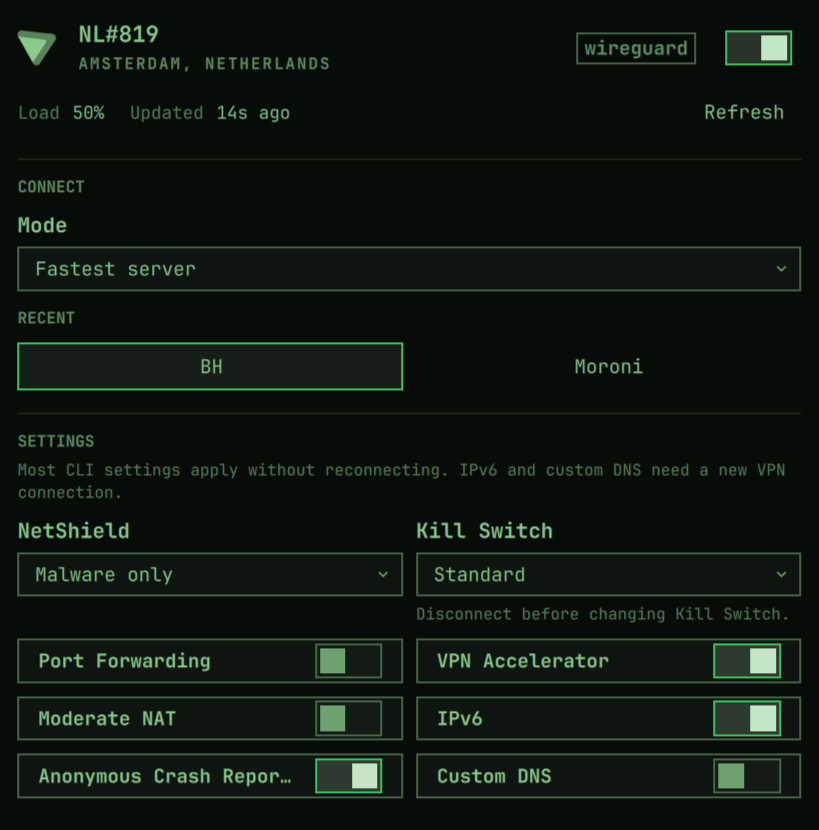
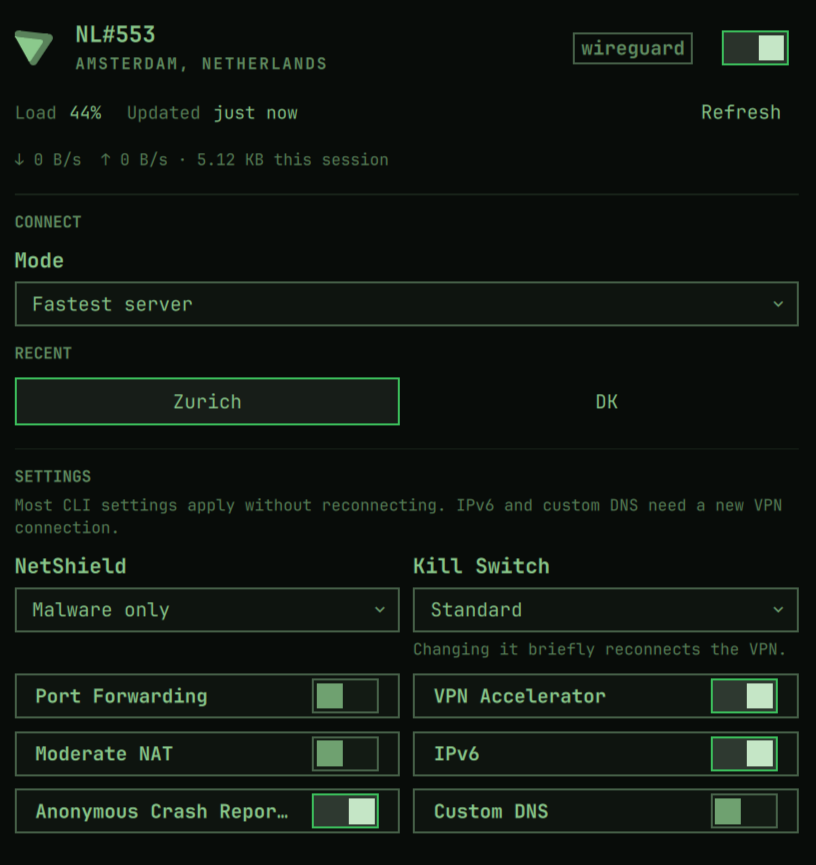
Refresh README and marketplace preview for 1.2.0
Lead the README with what the plugin does and what it needs, group
Install, Update and Uninstall with the Omarchy menu routes, and add a
widget settings table. Correct two install claims: adding the plugin
asks whether to enable it, and enabling without --section uses the
right section. Replace the hero screenshots with three 1.2.0 panels in
different themes and rebuild preview.png as a tiled composite of them.

diff --git a/README.md b/README.md
@@ -1,13 +1,136 @@
 # Proton VPN for Omarchy
 
 <p align="center">
-  <img src="docs/images/panel-fastest.png" alt="Proton VPN panel in a green Omarchy theme connected to NL#819 in Amsterdam on the fastest server, with recent BH and Moroni targets and settings below" width="49%">
-  <img src="docs/images/panel-city.png" alt="Proton VPN panel in a monochrome Omarchy theme connected to Amsterdam with City mode set to Tallinn, Estonia and a Switch to Tallinn button" width="49%">
+  <img src="docs/images/panel-country.png" alt="Proton VPN panel in a navy Omarchy theme, connected to DK#194 in Copenhagen in Country mode, with live traffic, BE under RECENT, and settings below" width="32%">
+  <img src="docs/images/panel-city.png" alt="Proton VPN panel in a monochrome Omarchy theme, connected to CH#1072 in Zurich in City mode, with DK and BE under RECENT" width="32%">
+  <img src="docs/images/panel-fastest.png" alt="Proton VPN panel in a green Omarchy theme, connected to NL#553 in Amsterdam on the fastest server, with Zurich selected under RECENT" width="32%">
 </p>
 
-Native Omarchy Quattro bar widget and keyboard-friendly panel for the official Proton VPN Linux CLI (`protonvpn`). NetworkManager is observed read-only so the bar reacts to tunnel changes without repeatedly starting the heavier CLI.
+A bar widget and keyboard-driven panel for Omarchy 4 (Quattro) that controls Proton VPN through Proton's official Linux CLI, `protonvpn`. Every connection and setting change goes through that CLI. The plugin does not reimplement Proton protocols, call Proton's private APIs, handle your credentials, edit Proton's files, or make network requests of its own. [Privacy](#privacy) lists exactly what it runs.
 
-Every VPN action and setting change goes through the installed official CLI. The plugin does not reimplement Proton protocols, call Proton's private APIs, collect credentials, edit Proton files, or run unofficial VPN clients.
+## What it does
+
+- Connects to the fastest server, or by country, city, server ID, Secure Core, P2P, Tor, or a random server.
+- Switches servers in place while connected, and lists recent connection targets under **RECENT** so you can return to one in a click.
+- Shows live download and upload rates and session totals while the panel is open.
+- Changes every setting `protonvpn config` exposes, including Kill Switch while connected, after asking first.
+- Sends a desktop notification when the VPN drops while the panel is closed.
+- Follows your Omarchy theme, and the panel works entirely from the keyboard.
+
+## What you need
+
+- Omarchy 4 (Quattro).
+- The official Proton VPN CLI, `proton-vpn-cli`, signed in to your Proton account. See [Install the Proton VPN CLI](#install-the-proton-vpn-cli).
+- NetworkManager, Python 3 at `/usr/bin/python3`, `which`, `wl-clipboard`, and libnotify (`notify-send`), all normally present on Omarchy. Without Python 3 no command can run.
+
+## Install
+
+Omarchy plugins run unsandboxed with your user privileges. Review the repository before enabling it.
+
+### From the Omarchy menu
+
+1. Choose **Setup → Plugins → Add Plugin**.
+2. When asked for the git URL, enter this and nothing else:
+
+   ```
+   https://github.com/BVisagie/omarchy-protonvpn.git
+   ```
+
+3. Accept Omarchy's plugin warning. Omarchy clones and validates the plugin, then asks whether to enable it and which bar section to use. Right is preselected.
+
+### From a terminal
+
+```sh
+omarchy plugin add https://github.com/BVisagie/omarchy-protonvpn.git
+```
+
+Omarchy shows the same warning, clones and validates the plugin, and asks whether to enable it. Add `--enable` to skip that question. Answer no to inspect the checkout at `~/.config/omarchy/plugins/io.github.BVisagie.protonvpn/` first, then enable it:
+
+```sh
+omarchy plugin enable io.github.BVisagie.protonvpn --section right
+```
+
+Without `--section`, the widget goes to the right section. To move it later:
+
+```sh
+omarchy bar move io.github.BVisagie.protonvpn --section center
+```
+
+### Install the Proton VPN CLI
+
+```sh
+sudo pacman -S proton-vpn-cli
+```
+
+`proton-vpn-cli` is in Arch's `extra` repository. Proton publishes an [Arch guide](https://protonvpn.com/support/linux-vpn-arch) for it, but a community contributor maintains the package, and Proton says support for Arch may be limited while it works towards official support. This plugin does not claim official Arch support.
+
+Then sign in from a terminal. The panel never asks for a password or 2FA code:
+
+```sh
+protonvpn signin USERNAME
+```
+
+## Update
+
+```sh
+omarchy plugin update io.github.BVisagie.protonvpn
+```
+
+Omarchy shows the incoming changes and asks before applying them. It then fast-forwards the checkout, validates it, and rolls back if validation fails. The Omarchy menu has no update entry, so updates run from a terminal.
+
+## Uninstall
+
+Choose **Setup → Plugins → Remove Plugin** from the Omarchy menu, then select this plugin. Or from a terminal:
+
+```sh
+omarchy plugin remove io.github.BVisagie.protonvpn
+```
+
+This removes the plugin from Omarchy. It does not uninstall `proton-vpn-cli` or sign out of Proton VPN.
+
+## Using the panel
+
+- **Left-click** the bar icon to open or close the panel.
+- **Right-click** connects or disconnects only while status is healthy and idle. Otherwise it opens the panel.
+- **Middle-click** refreshes when no Proton command is running.
+- The bar icon uses theme colors: connected is full strength, disconnected is dimmed, and degraded states add a warning badge. A slash marks disconnected or signed-out. Tooltip text names the current state.
+
+Inside the panel:
+
+- `j` / `k` or up/down arrows move the cursor between rows
+- `h` / `l` or left/right arrows move the cursor across a row
+- `Enter` / `Space` activates the selected control
+- `t` toggles connect/disconnect with the same safety gate as right-click
+- `r` refreshes
+- `Tab` / `Shift+Tab` switches to the next bar panel
+- `Esc` closes
+
+While connected, changing the CONNECT choices shows a **Switch to …** button (for example **Switch to Zurich**). It reconnects in place with the new choices, and `Enter` in the Server ID field does the same. The header toggle and `t` still disconnect. City lists are cached for the shell session, so picking a country again shows its cities immediately; **Refresh** reloads them.
+
+The last three successful connection targets are kept for the shell session and never written to disk. **RECENT** lists them without the current connection, so it shows only places you can switch to. When the CLI supplies a new exit IP after connecting, the panel shows it until the tunnel disconnects or changes.
+
+Country and city lists come from `protonvpn countries list` and `protonvpn cities list`. Server IDs are entered as text because the CLI does not expose a machine-readable server list; Proton publishes IDs at [the account WireGuard server list](https://account.proton.me/vpn/WireGuard).
+
+Settings cover every value exposed by `protonvpn config` on the tested CLI 1.0.1–1.0.3 range: NetShield, Kill Switch, port forwarding, custom DNS, VPN Accelerator, moderate NAT, IPv6, and anonymous crash reports. Changing Kill Switch while connected asks first, with Cancel selected. Confirming disconnects, changes the setting, and reconnects to the same target. If Proton rejects the change, the panel still reconnects and shows the error. IPv6 and custom DNS need a new VPN connection to apply. Custom DNS is validated locally and passed as one `--dns` argument.
+
+Some rows show a short caption. Hover a CONNECT or SETTINGS control, or move onto it with `j` / `k`, for a Proton-sourced tooltip. That copy is paraphrased from Proton’s official support articles and the Linux CLI guide. It is not a substitute for those pages, and the widget does not fetch Proton’s website.
+
+## Widget settings
+
+| Setting | Key | Default | Range or values |
+|---|---|---|---|
+| Status refresh while the panel is open | `refreshIntervalSec` | 30 seconds | 10–3600 |
+| Live link check interval | `linkWatchIntervalSec` | 4 seconds | 2–60 |
+| Desktop notifications (only while the panel is closed) | `notifications` | `drops` | `off`, `drops`, `all` |
+
+Change a setting with `omarchy bar set`. Numbers need `--json`:
+
+```sh
+omarchy bar set io.github.BVisagie.protonvpn notifications all
+omarchy bar set io.github.BVisagie.protonvpn refreshIntervalSec 60 --json
+```
+
+A drop is any tunnel loss the widget did not start itself, including one from another terminal. `all` also notifies when the tunnel connects.
 
 ## Privacy
 
@@ -15,7 +138,7 @@ Every VPN action and setting change goes through the installed official CLI. The
 - The runner caps stdout and stderr while commands execute, enforces deadlines, and reaps the complete child process group after a timeout or overflow.
 - A read-only `nmcli connection show --active` probe observes `proton0`-style tunnel devices. It never creates, changes, or removes NetworkManager connections.
 - It never collects, logs, stores, or passes Proton credentials.
-- It never invokes `sudo` or `pkexec`.
+- It does not use sudo or pkexec.
 - It never makes extra network requests such as “what is my IP” lookups, map tiles, or telemetry.
 - The exit IP is shown only when the Proton CLI itself returns it after connecting. Exit IP, recent targets, and traffic totals stay in memory and disappear when `omarchy-shell` exits.
 - Traffic rates come from the tunnel's own kernel counters under `/sys/class/net/`. They are read every two seconds only while the panel is open and the tunnel is up. Captured test fixtures are synthetic or redacted.
@@ -36,74 +159,10 @@ Started directly, only when you press the matching panel control:
 
 - `wl-copy` copies the suggested install or sign-in command
 - `omarchy-launch-terminal` opens a terminal for signing in
-- `notify-send` sends a fixed desktop notification when the tunnel drops (or connects, if enabled) while the panel is closed
 
-## Install
+Started directly when the tunnel changes while the panel is closed:
 
-Omarchy’s **Add plugin** prompt asks only for the git URL. Paste this and nothing else:
-
-```
-https://github.com/BVisagie/omarchy-protonvpn.git
-```
-
-From a terminal, the same URL is the only required argument:
-
-```sh
-omarchy plugin add https://github.com/BVisagie/omarchy-protonvpn.git
-```
-
-That clones the plugin disabled so you can review it. Enable it when you are ready; right is the default section:
-
-```sh
-omarchy plugin enable io.github.BVisagie.protonvpn --section right
-```
-
-Omit `--section` to be asked **left**, **center**, or **right**. To move it later:
-
-```sh
-omarchy bar move io.github.BVisagie.protonvpn --section right
-```
-
-Requires NetworkManager, Python 3 at `/usr/bin/python3`, `which`, and `wl-clipboard`, all normally present on Omarchy. Without Python 3 no command can run. It also needs the official Proton VPN CLI on `PATH`:
-
-```sh
-sudo pacman -S proton-vpn-cli
-```
-
-The `proton-vpn-cli` package is available in Arch's `extra` repository. Arch is not one of Proton's officially supported Linux distributions, so upstream support and packaged updates may be limited. This plugin documents that limitation rather than claiming official Arch support.
-
-After installing the CLI, sign in from a terminal. The panel never asks for a password or 2FA code:
-
-```sh
-protonvpn signin USERNAME
-```
-
-## Interaction
-
-- **Left-click** the bar icon to open or close the panel.
-- **Right-click** connects or disconnects only while status is healthy and idle. Otherwise it opens the panel.
-- **Middle-click** refreshes when no Proton command is running.
-- The bar icon uses theme colors: connected is full strength, disconnected is dimmed, and degraded states add a warning badge. A slash marks disconnected or signed-out. Tooltip text names the current state.
-
-Inside the panel:
-
-- `j` / `k` or up/down arrows move the cursor between rows
-- `h` / `l` or left/right arrows move the cursor across a row
-- `Enter` / `Space` activates the selected control
-- `t` toggles connect/disconnect with the same safety gate as right-click
-- `r` refreshes
-- `Tab` / `Shift+Tab` switches to the next bar panel
-- `Esc` closes
-
-While connected, changing the CONNECT choices shows a **Switch to …** button (for example **Switch to Zurich**). It reconnects in place with the new choices, and `Enter` in the Server ID field does the same. The header toggle and `t` still disconnect. City lists are cached for the shell session, so picking a country again shows its cities immediately; **Refresh** reloads them.
-
-Up to three successful connection targets appear under **RECENT** for the current shell session. They are never written to disk. When the CLI supplies a new exit IP after connecting, the panel shows it until the tunnel disconnects or changes.
-
-Connection modes match the current CLI: fastest, country, city, specific server ID, Secure Core, P2P, Tor, and random. Country and city lists come from `protonvpn countries list` and `protonvpn cities list`. Server IDs are entered as text because the CLI does not expose a machine-readable server list; Proton publishes IDs at [the account WireGuard server list](https://account.proton.me/vpn/WireGuard).
-
-Settings cover every value exposed by `protonvpn config` on the tested CLI 1.0.1–1.0.3 range: NetShield, Kill Switch, port forwarding, custom DNS, VPN Accelerator, moderate NAT, IPv6, and anonymous crash reports. Changing Kill Switch while connected asks first, with Cancel selected. Confirming disconnects, changes the setting, and reconnects to the same target. If Proton rejects the change, the panel still reconnects and shows the error. IPv6 and custom DNS need a new VPN connection to apply. Custom DNS is validated locally and passed as one `--dns` argument.
-
-Some rows show a short caption. Hover a CONNECT or SETTINGS control, or move onto it with `j` / `k`, for a Proton-sourced tooltip. That copy is paraphrased from Proton’s official support articles and the Linux CLI guide. It is not a substitute for those pages, and the widget does not fetch Proton’s website.
+- `notify-send` sends a fixed desktop notification when the tunnel drops (or connects, if enabled)
 
 ## Limitations
 
@@ -112,10 +171,9 @@ Some rows show a short caption. Hover a CONNECT or SETTINGS control, or move ont
 - Location, feature, and some configuration choices can require a paid plan. The panel shows the CLI's error instead of guessing the account tier.
 - `protonvpn status` does not provide the current exit IP. The widget never performs an external lookup, so the value is available only after a successful connect command that returned it.
 - Omarchy creates a widget on each monitor. On Omarchy's built-in bar every panel uses one shared service, so Proton CLI commands are serialized across all monitors. Replacement bars cannot provide that service, so each panel there runs its own copy and polls separately.
-- `protonvpn status` runs on a timer only while a panel is open. It defaults to every 30 seconds and can be changed in widget settings (10–3600 seconds). Each run starts Python and opens a new keyring connection, so with every panel closed it runs only at start-up, when the NetworkManager link changes, and after an action. If `nmcli` is unavailable, it keeps polling on the timer. The bar icon keeps following the tunnel through the read-only link probe, but a sign-out or a newly opened desktop app is noticed only when you open the panel or the link changes.
+- `protonvpn status` runs on a timer only while a panel is open. Each run starts Python and opens a new keyring connection, so with every panel closed it runs only at start-up, when the NetworkManager link changes, and after an action. If `nmcli` is unavailable, it keeps polling on the timer. The bar icon keeps following the tunnel through the read-only link probe, but a sign-out or a newly opened desktop app is noticed only when you open the panel or the link changes.
 - The Proton CLI sometimes crashes while exiting, after printing its full output. Read-only commands (`status`, `countries list`, `cities list`, `config list`) accept that output when it parses. Settings must list every known key, and country or city lists from a crashed run are fetched again next time. Connect, disconnect, and setting changes never do.
-- The live link probe defaults to four seconds and can be changed in widget settings.
-- Desktop notifications default to **When the VPN drops**. A drop is any tunnel loss the widget did not start itself, including one from another terminal. Nothing is sent while the panel is open. Set **Desktop notifications** to **Drops and connections** or **Off** in widget settings.
+- Desktop notifications are never sent while the panel is open.
 - Changing Kill Switch while connected leaves you unprotected for a few seconds during the reconnect. That is why the panel asks first.
 
 ## Troubleshooting
@@ -149,6 +207,8 @@ The recorded parser fixtures target CLI versions 1.0.1 through 1.0.3. Versions o
 
 **Hung command.** A watchdog stops a stuck process and marks its job timed out. Queued commands start once that process has exited, and its late output is ignored.
 
+**Update says it cannot fast-forward.** If you have not changed the checkout yourself, your copy predates a rewrite of this repository's history in September 2026. Remove the plugin and add it again; see [Uninstall](#uninstall) and [Install](#install).
+
 **Validate the plugin:**
 
 ```sh
@@ -159,18 +219,12 @@ That script runs Node and Python tests, `omarchy plugin validate .` when Omarchy
 
 ## Architecture
 
-- `Service.qml` is the Omarchy service shared by every monitor. Its scheduler serializes all Proton CLI work.
+- `Service.qml` is the Omarchy service shared by every monitor. It runs Proton CLI commands one at a time and stops a stuck one with a watchdog.
+- `Scheduler.js` is the job queue behind it. User actions and city lists go ahead of background refreshes, each job has its own timeout, and output from a job that was already stopped is ignored.
 - `Panel.qml` contains the compact bar control and reads state from the shared service. When the bar cannot provide one, it runs a local `Service` instance instead.
+- `ProtonVpnIcon.qml` draws the Proton VPN mark in the current theme color for the bar and panel.
 - `Model.js` contains parsers, validation, compatibility detection, and display rules covered by captured fixtures.
 - `scripts/run_bounded.py` is a local process supervisor; it does not implement VPN behavior or make network requests.
-
-## Uninstall
-
-```sh
-omarchy plugin remove io.github.BVisagie.protonvpn
-```
-
-This removes the plugin from Omarchy. It does not uninstall `proton-vpn-cli` or sign out of Proton VPN.
 
 ## License
 

diff --git a/CHANGELOG.md b/CHANGELOG.md
@@ -1,5 +1,9 @@
 # Changelog
 
+## Unreleased
+
+- Refresh the README and marketplace preview for 1.2.0: new screenshots in three themes, a feature and requirements summary up front, menu install and removal steps, an Update section, and a widget settings table. Correct the install steps: adding the plugin asks whether to enable it, and enabling without `--section` uses the right section.
+
 ## 1.2.0 — 2026-09-18
 
 - Send a desktop notification when the tunnel drops unexpectedly while the panel is closed. A new **Desktop notifications** setting offers Off, drops only (default), or drops and connections.
